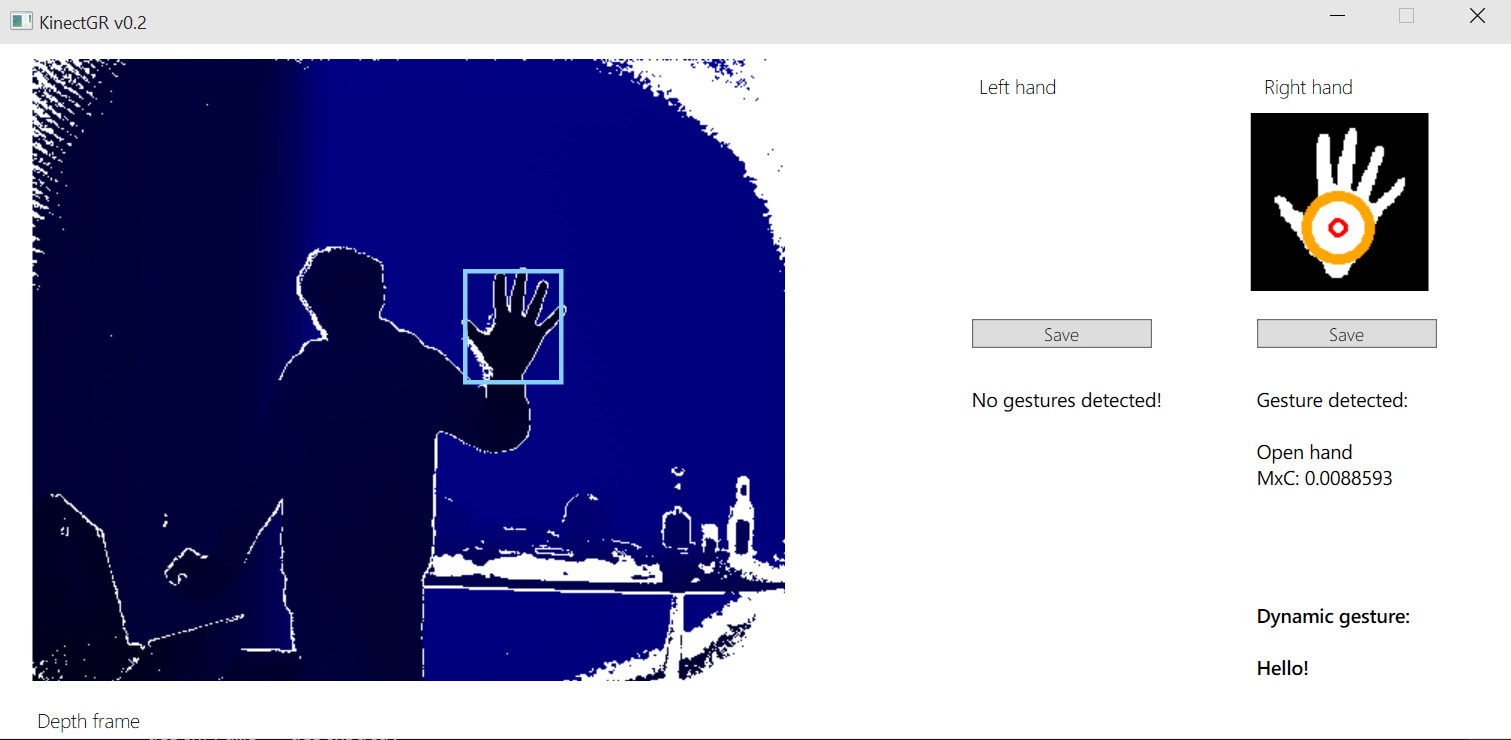
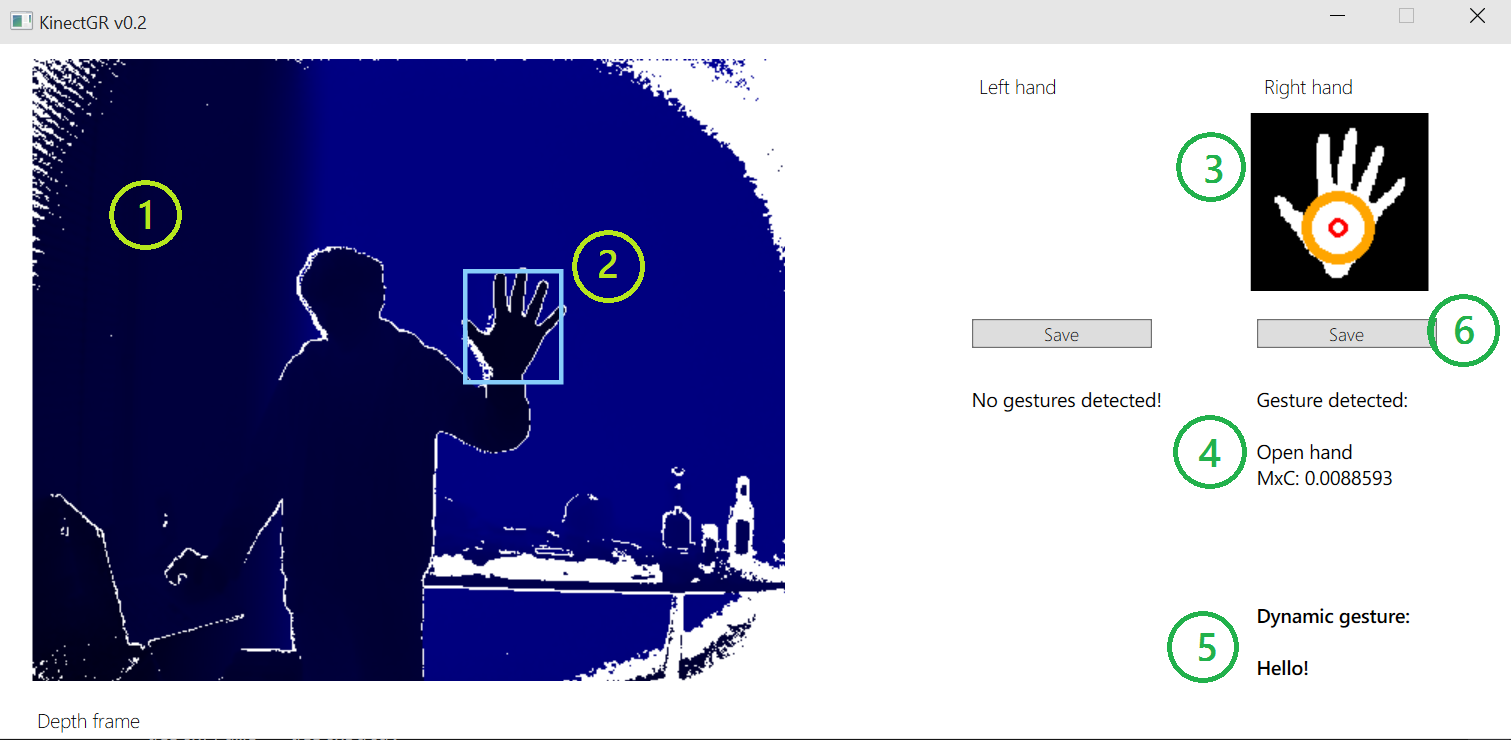
added picture for app gui

diff --git a/TeX/thesis.tex b/TeX/thesis.tex
@@ -440,11 +440,16 @@ Either of the following two methods can be used to try the final application for
 
 \subsection{GUI.}
 
-%!
-%Add a picture of application's GUI
+  \begin{figure}[H]
+  \centering
+  %! Fix scale
+  \includegraphics[scale=1]{app-gui.png}
+\caption{Application's interface}
+\end{figure}
 
 \begin{enumerate}
-\item Depth frame from Kinect data, on which hand regions are highlighted, if detected. If Kinect is not connected an error is displayed here.
+\item Depth frame from Kinect data. If Kinect is not connected an error is displayed here.
+\item Box representing position of the detected hand.
 \item Mask image of a hand with important points marked.
 \item Static gestures that were recognized. Similarity product and direction are displayed for recognized gestures.
 \item Dynamic gestures that were recognized.
